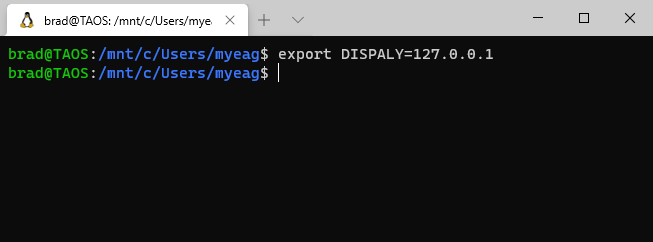
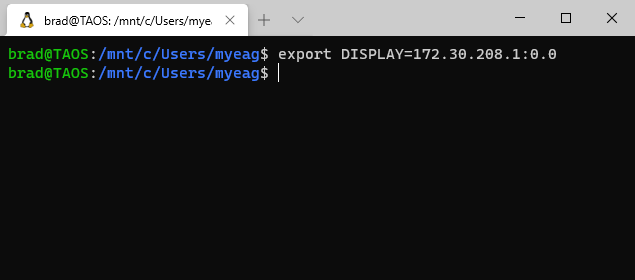
Updated WSL2 documentation

diff --git a/55-Running Photino Apps In Windows SubSystem for Linux (WSL).md b/55-Running Photino Apps In Windows SubSystem for Linux (WSL).md
@@ -1,68 +1,32 @@
-# Run Photino Apps in WSL
-Yes, you can test your Photino applications in Windows Subsystem for Linux (WSL)! We've tested with WSL2 and Ubuntu 20.04. While we don't officially support running Photino Linux apps in WSL, we recognize that it is useful for testing and demos. It does require a little configuration however, because WSL does not have a graphical UI. To compensate, Linux has the X Window System, sometimes referred to as X11 or just X which provides for basic GUI functions. We've tested with [XMing]("http://www.straightrunning.com/XmingNotes/index.php") and [Putty (Unofficial)]("https://www.microsoft.com/en-us/p/putty-unofficial/9n8pdn6ks0f8?activetab=pivot:overviewtab") by Hauke Hasselberg. And in order to make this all work, you'll first need to install a 3rd component [OpenSSH Server]("https://ubuntu.com/server/docs/service-openssh"). 
+# Run Photino Apps in WSL2
+Yes, you can test your Photino applications in Windows Subsystem for Linux (WSL)! We've tested with WSL2 and Ubuntu 20.04. While we don't officially support running Photino Linux apps in WSL2, we recognize that it is useful for testing and demos. It does require a little configuration however, because WSL does not have a graphical UI. To compensate, Linux has the X Window System, sometimes referred to as X11 or just X which provides for basic GUI functions. We've tested with an X Windows System for Windows named [Vcxsrv]("https://sourceforge.net/projects/vcxsrv/") which can be found on SourceForge. 
 <br><br>
 
 ## Configure your machine
-## Install OpenSSH Server (full install) in WSL
-WSL does come with a minimal package for OpenSSH Server installed, but we need the full package. So open a WSL shell (I like to use [Windows Terminal]("https://www.microsoft.com/en-us/p/windows-terminal/9n0dx20hk701?activetab=pivot:overviewtab") which can be installed from the Microsoft Store) and enter:
+## Install VcXsrv
+VcXsrv can be installed with a downloaded installer program obtained from the web page above. 
 
-`sudo apt-get remove  openssh-server`
-![](RemoveOpenSSHServer.png)
+Once VcXsrv server has been installed and run on your Windows machine, you'll see the X Server icon in your system tray. Right-click and choose 'Show Log'. the last few lines of the log should look something like this: 
 
-Then re-install to get the full version:
+* winClipboardThreadProc - DISPLAY=127.0.0.1:0.0
+* winClipboardProc - xcb_connect () returned and successfully opened the display.
+* Using Composite redirection
 
-`sudo apt-get install  openssh-server`
-![](ReInstallOpenSSHServer.png)
-<br><br>
+From the context menu of the system tray icon, there is an Applications submenu from which you can launch xcalc, xclock, and xwininfo; Linux programs that display their GUIs on your Windows desktop.
 
-Next, edit the */etc/ssh/sshd_config* file. I like to use [VS Code]("https://code.visualstudio.com/") for this, but any text editor will do. See [this article]("https://code.visualstudio.com/blogs/2019/09/03/wsl2") about running VS Code in WSL2. 
-
-Add or change the following settings in sshd_config:
-* Change - PermitRootLogin no
-* Add - AllowUsers yourusername
-* Change - PasswordAuthentication yes
-* Add - UsePrivilegeSeparation no
-* Change - ListenAddress 0.0.0.0
-* Change - Port 2200
-
-Note that some of these settings displayed warnings when I used them, but they worked.
-
-Next, re-start the ssh service for the new settings to take effect:
-
-`sudo service ssh --full-restart`
-
-You will likely also have to allow the OpenSSH Server through your local firewall. For Windows 10, click start, type `Allow an app through Windows Firewall`, scroll down to OpenSSH Server and allow it on whichever networks you will access it from:
-![](AllowOpeSSHServerThroughWindowsFirewall.png)
-
-## Install XMing Server
-XMing can be installed with a downloaded installer program obtained from the web page above. 
-
-Once XMing server has been installed and run on your Windows machine, you'll see the XMing icon in your system tray. Right-click and choose 'View Log'. the last few lines of the log should look something like this: 
-
-* winClipboardProc - DISPLAY=127.0.0.1:0.0
-* winMultiWindowXMsgProc - XOpenDisplay () returned and successfully opened the display.
-* winInitMultiWindowWM - XOpenDisplay () returned and successfully opened the display.
-* winClipboardProc - XOpenDisplay () returned and successfully opened the display.
+## Set an Environment Variable in your WSL2 Shell
+Open a command prompt or powershell prompt in Windows, type `ipconfig` and hit enter. Find the entry that reads: **Ethernet adapter vEthernet (WSL):** and make a note of the IPV4 address listed.
 
 Next, open a WSL shell and enter:<br>
-`export DISPLAY=127.0.0.1`
+`export DISPLAY=XXX.XXX.XXX.XXX:0.0`<br>
+where <span>XXX.</span><span>XXX.</span>XXX.</span>XXX is the IP address for your WSL vEthernet adapter. Note that most of the directions you'll find online for VcXsrv, XMing and other X Window Servers tell you to use 127.0.0.1 for the IP address. This does not work (at least not well) in WSL2.
 
 ![](WindowsTerminal-WSL-ExportDisplay.png)
 
-This ensures that WSL is running and sets up X11.
-<br><br>
+You can test running apps from the WSL shell by installing some sample X Window apps: `sudo apt-get install x11-apps` and then running one of the apps: `xeyes`, which displays a Window with a title bar and a set of eyes that follow the cursor around.
 
-## Install Putty (Unofficial)
-`Putty (Unofficial)` can be installed form the Microsoft Store. We've been told that [XMing-portablePuTTY]("http://www.straightrunning.com/XmingNotes/portable.php") works well in place of `Putty (Unofficial)`, but haven't tried it ourselves.
+![](XeyesInWSL2.png)
 
-Finally, run Putty (Unofficial). Set the Host Name (or IP address) to `localhost` or `127.0.0.1` and set the Port to `2200`. Under the Connection category open the SSH sub-category, click on X11, check Enable X11 forwarding and set X display location to `127.0.0.1`
+You Photino apps will now run on your Windows desktop as well:
 
-![](Putty-X11-Settings.png)
-
-On the Session category (the home screen), enter a name under Saved Sessions and click the Save button. Next time you run Putty (Unofficial), you can load these settings to recall your configuration.
-
-![](Putty-Save-Session.png)
-
-
-<br><br>
-Our configuration was created from [this article]("https://virtualizationreview.com/articles/2017/02/08/graphical-programs-on-windows-subsystem-on-linux.aspx") Many thanks to Tom Fenton, the author.
+![](PhotinoInWSL2.png)
